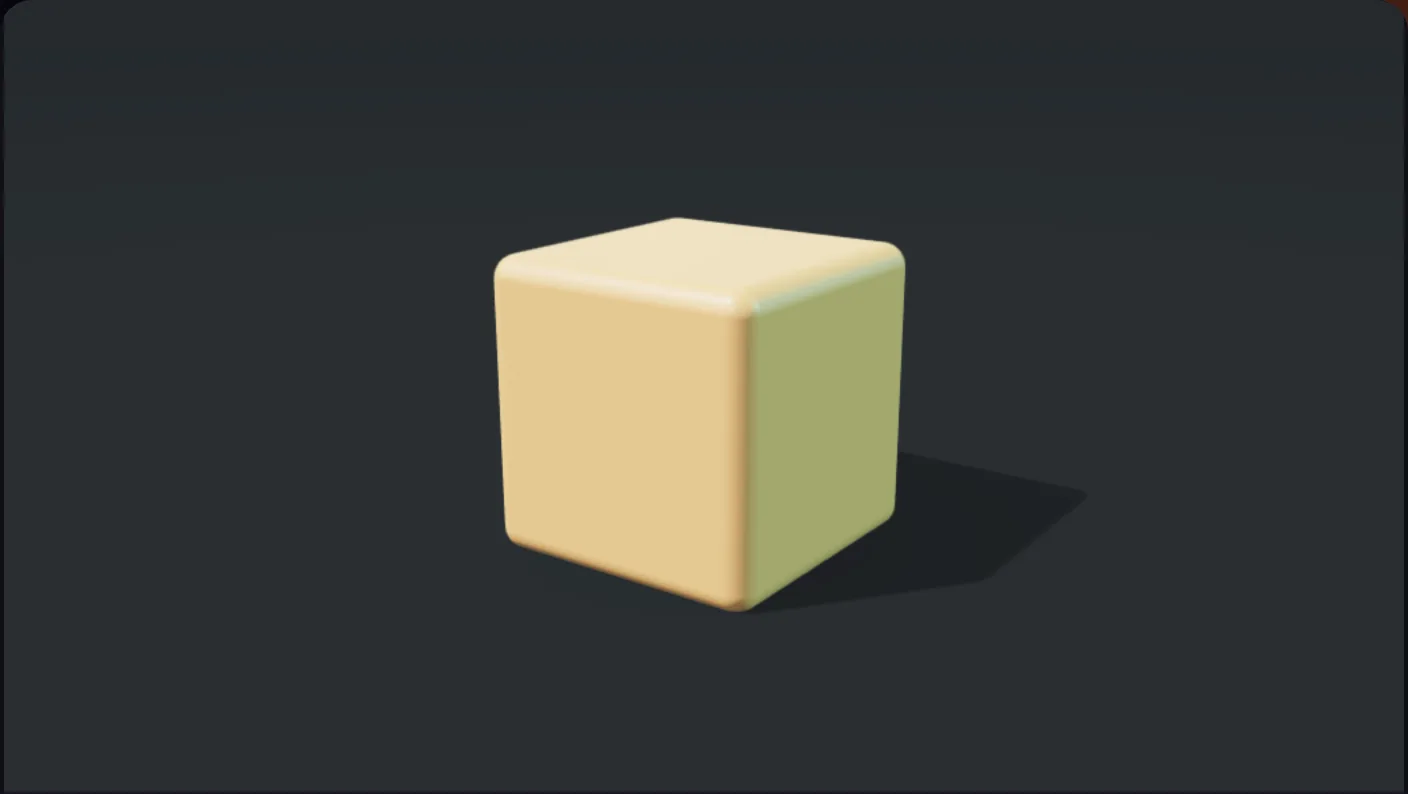
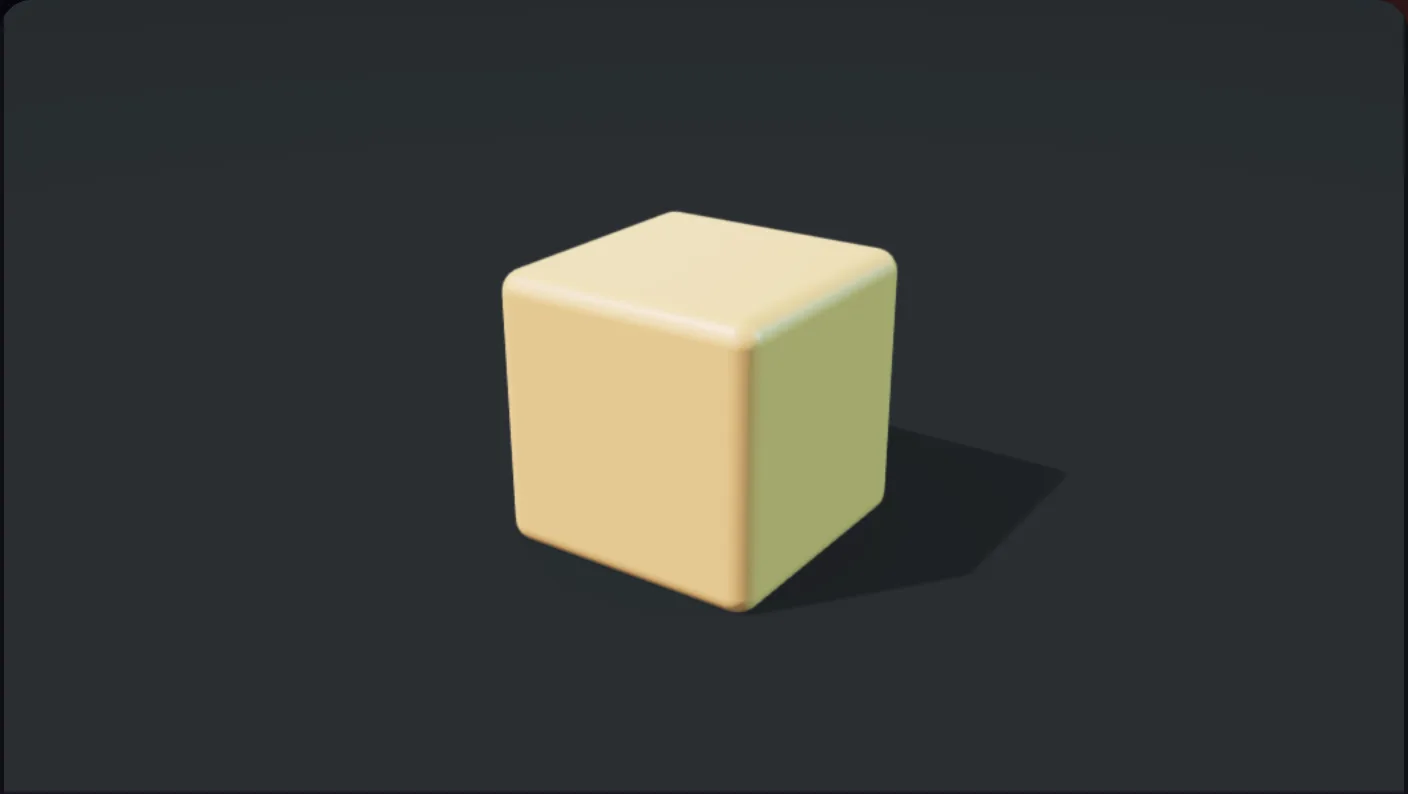
Docs live examples: console output panel, status label fixed, orbit on the introduction cube
The status label was a <p>, so it took the article paragraph style (14 px, 23 px bottom
margin) and sat large and high in the toolbar. It is a <span> now. Each example relays its
console output to a small panel under the picture, so pages can show what a call returns.
The introduction cube can be dragged to orbit; its poster is re-rendered.

diff --git a/src/docs-live.js b/src/docs-live.js
@@ -74,6 +74,32 @@ async function importMapFor(source) {
   return imports;
 }
 
+// The example's console.log, info, warn and error go to the page as text, so the docs can show what a call returns.
+// Typed arrays print their length and first values; deep objects stop at three levels.
+const consoleRelay = `
+  const formatValue = (value, depth = 0) => {
+    if (typeof value === 'string') return value;
+    if (typeof value === 'number') return String(Math.round(value * 1e4) / 1e4);
+    if (value === null || typeof value !== 'object') return String(value);
+    if (ArrayBuffer.isView(value)) {
+      const head = Array.from(value.slice(0, 6), number => formatValue(number)).join(', ');
+      return value.constructor.name + '(' + value.length + ') [' + head + (value.length > 6 ? ', …' : '') + ']';
+    }
+    if (value instanceof Error) return value.message;
+    if (depth >= 3) return Array.isArray(value) ? '[…]' : '{…}';
+    if (Array.isArray(value)) return '[' + value.slice(0, 20).map(item => formatValue(item, depth + 1)).join(', ') + (value.length > 20 ? ', …' : '') + ']';
+    const entries = Object.entries(value).slice(0, 20).map(([key, item]) => key + ': ' + formatValue(item, depth + 1));
+    return '{ ' + entries.join(', ') + ' }';
+  };
+  for (const level of ['log', 'info', 'warn', 'error']) {
+    const original = console[level].bind(console);
+    console[level] = (...values) => {
+      original(...values);
+      report({ log: { level, text: values.map(value => formatValue(value)).join(' ') } });
+    };
+  }`;
+const CONSOLE_LINE_LIMIT = 200;
+
 // Capture mode replaces the clock, so the media script can step a loop frame by frame and get the same picture every time.
 const captureClock = `
   let virtualTime = 0;
@@ -98,6 +124,7 @@ function frameDocument(source, imports, exampleId, capture) {
   const report = message => parent.postMessage({ docsLive: ${JSON.stringify(exampleId)}, ...message }, parent.location.origin);
   addEventListener('error', event => report({ error: event.message || 'The example failed.' }));
   addEventListener('unhandledrejection', event => report({ error: String(event.reason?.message ?? event.reason) }));
+  ${consoleRelay}
   ${capture ? captureClock : ''}
 </script></head><body><canvas id="scene"></canvas>
 <script type="module">${code}</script>
@@ -134,9 +161,10 @@ export function createLiveExample({ source, title, poster, file = 'main.js', asp
       ${poster ? `<img class="live-poster" src="/docs-media/${poster}.webp" alt="" loading="lazy" decoding="async" onerror="this.remove()">` : ''}
       <button class="live-start" type="button">${icon('run')}Run example</button>
     </div>
+    <pre class="live-console" aria-label="Console output" hidden></pre>
     <div class="live-toolbar">
       <span class="live-file">${file}</span>
-      <p class="live-status" role="status" aria-live="polite"></p>
+      <span class="live-status" role="status" aria-live="polite"></span>
       <button class="live-run" type="button" title="Run (Ctrl+Enter)">${icon('run')}Run</button>
       <button class="live-reset" type="button" disabled>${icon('reset')}Reset</button>
       <button class="live-copy" type="button">${icon('copy')}Copy</button>
@@ -148,6 +176,7 @@ export function createLiveExample({ source, title, poster, file = 'main.js', asp
   const stage = root.querySelector('.live-stage');
   const startButton = root.querySelector('.live-start');
   const status = root.querySelector('.live-status');
+  const consoleOutput = root.querySelector('.live-console');
   const resetButton = root.querySelector('.live-reset');
   const copyButton = root.querySelector('.live-copy');
   const editor = root.querySelector('textarea');
@@ -174,9 +203,26 @@ export function createLiveExample({ source, title, poster, file = 'main.js', asp
     status.append(label);
   }
 
+  function clearConsole() {
+    consoleOutput.replaceChildren();
+    consoleOutput.hidden = true;
+  }
+
+  function appendConsoleLine({ level, text }) {
+    if (consoleOutput.childElementCount >= CONSOLE_LINE_LIMIT) consoleOutput.firstElementChild.remove();
+    const line = document.createElement('span');
+    line.className = 'live-console-line';
+    line.dataset.level = level;
+    line.textContent = text;
+    consoleOutput.append(line);
+    consoleOutput.hidden = false;
+    consoleOutput.scrollTop = consoleOutput.scrollHeight;
+  }
+
   async function run() {
     const thisRun = ++runNumber;
     running = true;
+    clearConsole();
     root.classList.add('is-running');
     setStatus('busy', '');
     let imports;
@@ -208,7 +254,8 @@ export function createLiveExample({ source, title, poster, file = 'main.js', asp
   }
 
   messageHandlers.set(exampleId, message => {
-    if (message.error) setStatus('error', message.error);
+    if (message.log) appendConsoleLine(message.log);
+    else if (message.error) setStatus('error', message.error);
     else if (message.ready && status.dataset.kind !== 'error') {
       setStatus('ok', 'Running');
       root.dataset.ready = 'true';

diff --git a/src/documentation.css b/src/documentation.css
@@ -142,6 +142,11 @@
 .documentation .live-start { position:relative; display:inline-flex; align-items:center; gap:8px; min-height:42px; padding:10px 18px; font-size:14px; background:#171717d9; color:var(--text); backdrop-filter:blur(8px); }
 .live-start .icon { width:16px; height:16px; }
 .live-example.is-running .live-start { visibility:hidden; }
+.documentation .live-console { display:block; max-height:140px; margin:0; padding:10px 20px; border:0; border-radius:0; background:#0c0c10; overflow:auto; font:12px/1.6 ui-monospace,Consolas,monospace; color:var(--muted); white-space:pre-wrap; overflow-wrap:anywhere; }
+.documentation .live-console[hidden] { display:none; }
+.live-console-line { display:block; }
+.live-console-line[data-level=warn] { color:var(--docs-warning); }
+.live-console-line[data-level=error] { color:var(--text); }
 .live-toolbar { display:flex; align-items:center; gap:6px; padding:10px 12px 0 18px; user-select:none; }
 .live-file { font:12px ui-monospace,Consolas,monospace; color:var(--muted); }
 .documentation .live-status { display:inline-flex; align-items:center; gap:7px; margin:0 auto 0 10px; min-width:0; font-size:12px; line-height:1.4; color:var(--muted); }

diff --git a/docs/learn/introduction.md b/docs/learn/introduction.md
@@ -2,12 +2,13 @@
 
 67js is a 3D engine for the browser. It draws with WebGL2 and runs in every current desktop and phone browser. You describe a scene as a list of parts, and the renderer draws a frame from a camera.
 
-The program below is a complete 67js scene. It runs on this page. Change a number in the code, and the picture changes.
+The program below is a complete 67js scene. It runs on this page. Drag the picture to turn the camera. Change a number in the code, and the picture changes.
 
 ```js live poster=introduction-cube
 import { Renderer67, box } from '67js';
 
 const canvas = document.querySelector('#scene');
+canvas.style.touchAction = 'none';
 const cube = {
   name: 'Cube',
   geometry: box(),
@@ -15,9 +16,25 @@ const cube = {
   material: { color: [0.85, 0.45, 0.2], metallic: 0, roughness: 0.4 },
 };
 const renderer = new Renderer67(canvas, [cube]);
+const orbit = { yaw: 0.6, pitch: 0.4, distance: 4.7 };
+
+function draw() {
+  const flat = Math.cos(orbit.pitch) * orbit.distance;
+  const eye = [Math.sin(orbit.yaw) * flat, Math.sin(orbit.pitch) * orbit.distance + 0.5, Math.cos(orbit.yaw) * flat];
+  renderer.render({ eye, target: [0, 0.5, 0] });
+}
+
+// Drag to orbit: each pointer move changes the angles and draws one frame.
+canvas.addEventListener('pointerdown', event => canvas.setPointerCapture(event.pointerId));
+canvas.addEventListener('pointermove', event => {
+  if (!canvas.hasPointerCapture(event.pointerId)) return;
+  orbit.yaw -= event.movementX * 0.01;
+  orbit.pitch = Math.min(1.4, Math.max(0.05, orbit.pitch + event.movementY * 0.01));
+  draw();
+});
 new ResizeObserver(() => {
   renderer.resize();
-  renderer.render({ eye: [2.5, 1.8, 3.5], target: [0, 0.5, 0] });
+  draw();
 }).observe(canvas);
 ```
 

diff --git a/changes/docs-live-console.md b/changes/docs-live-console.md
@@ -1,0 +1,1 @@
+- Docs live examples: the status label no longer takes the article's paragraph style (it was 14 px with a 23 px bottom margin, so it sat high and large), each example shows what its `console.log`, `info`, `warn` and `error` print in a small output panel under the picture, and the introduction cube can be dragged to orbit.
